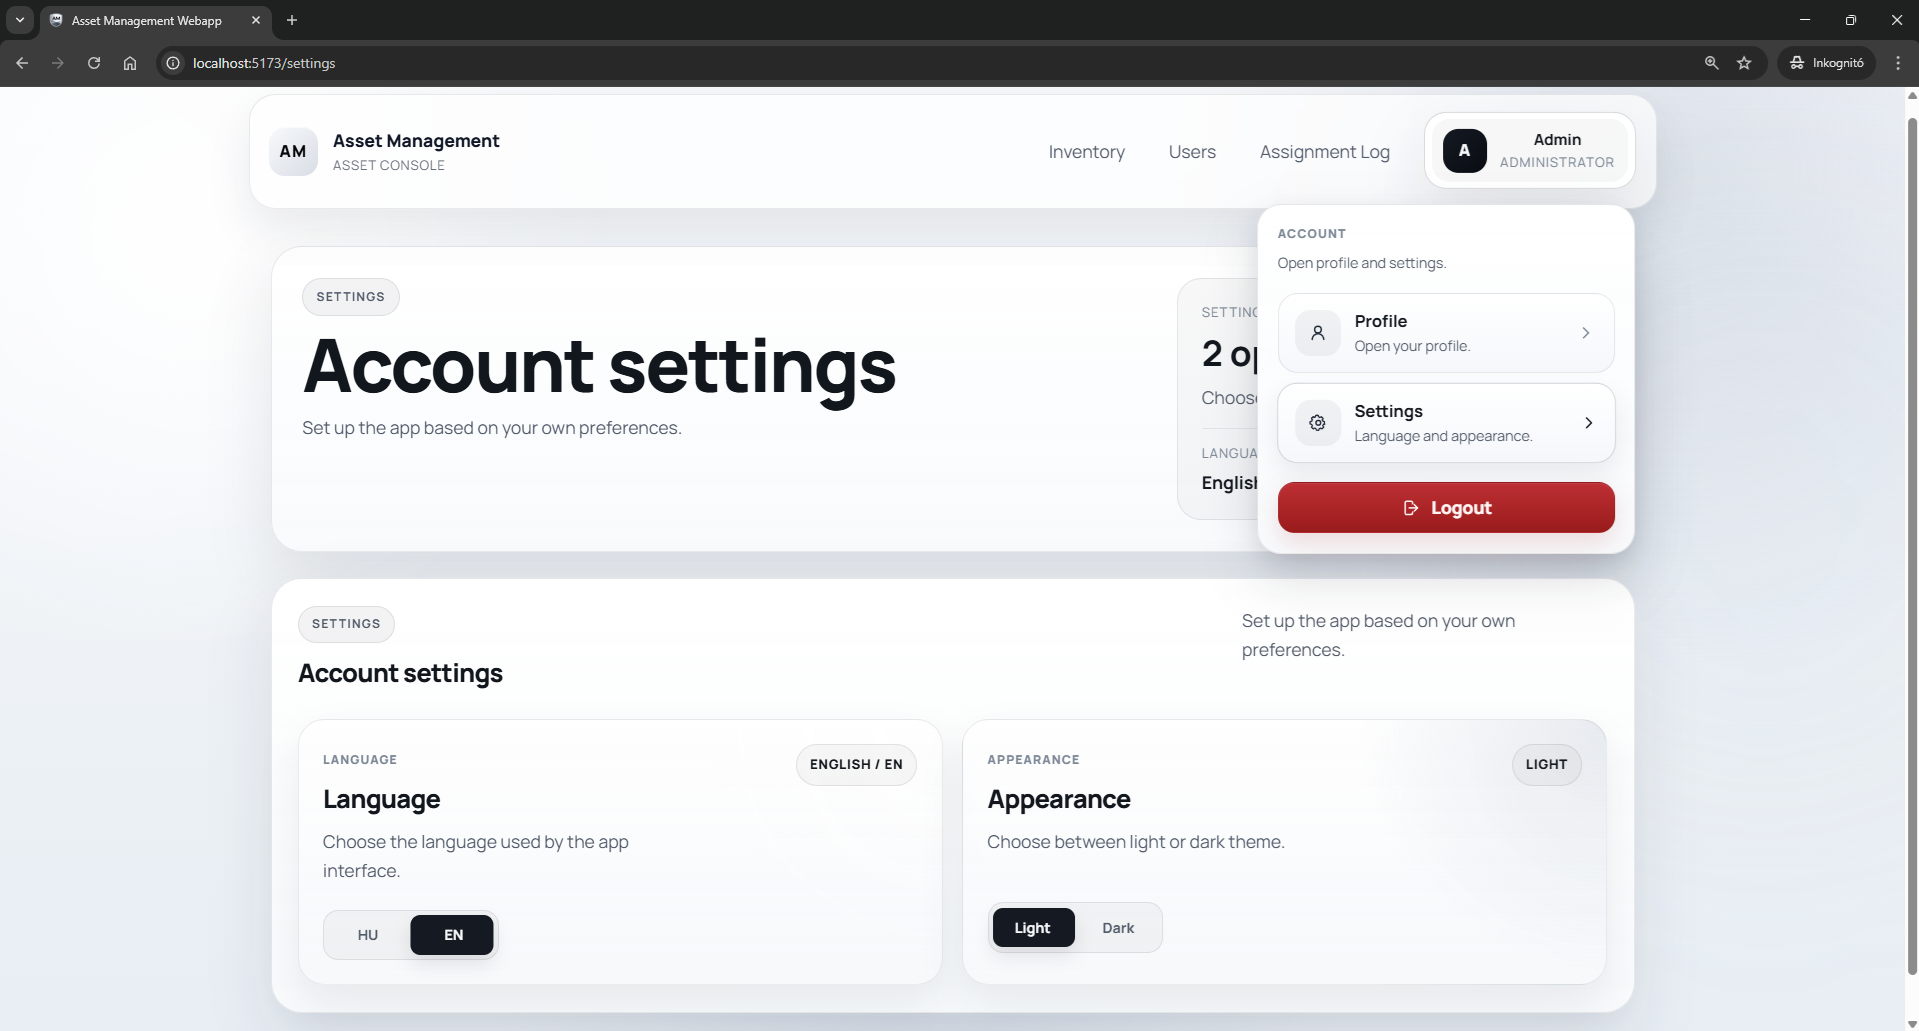
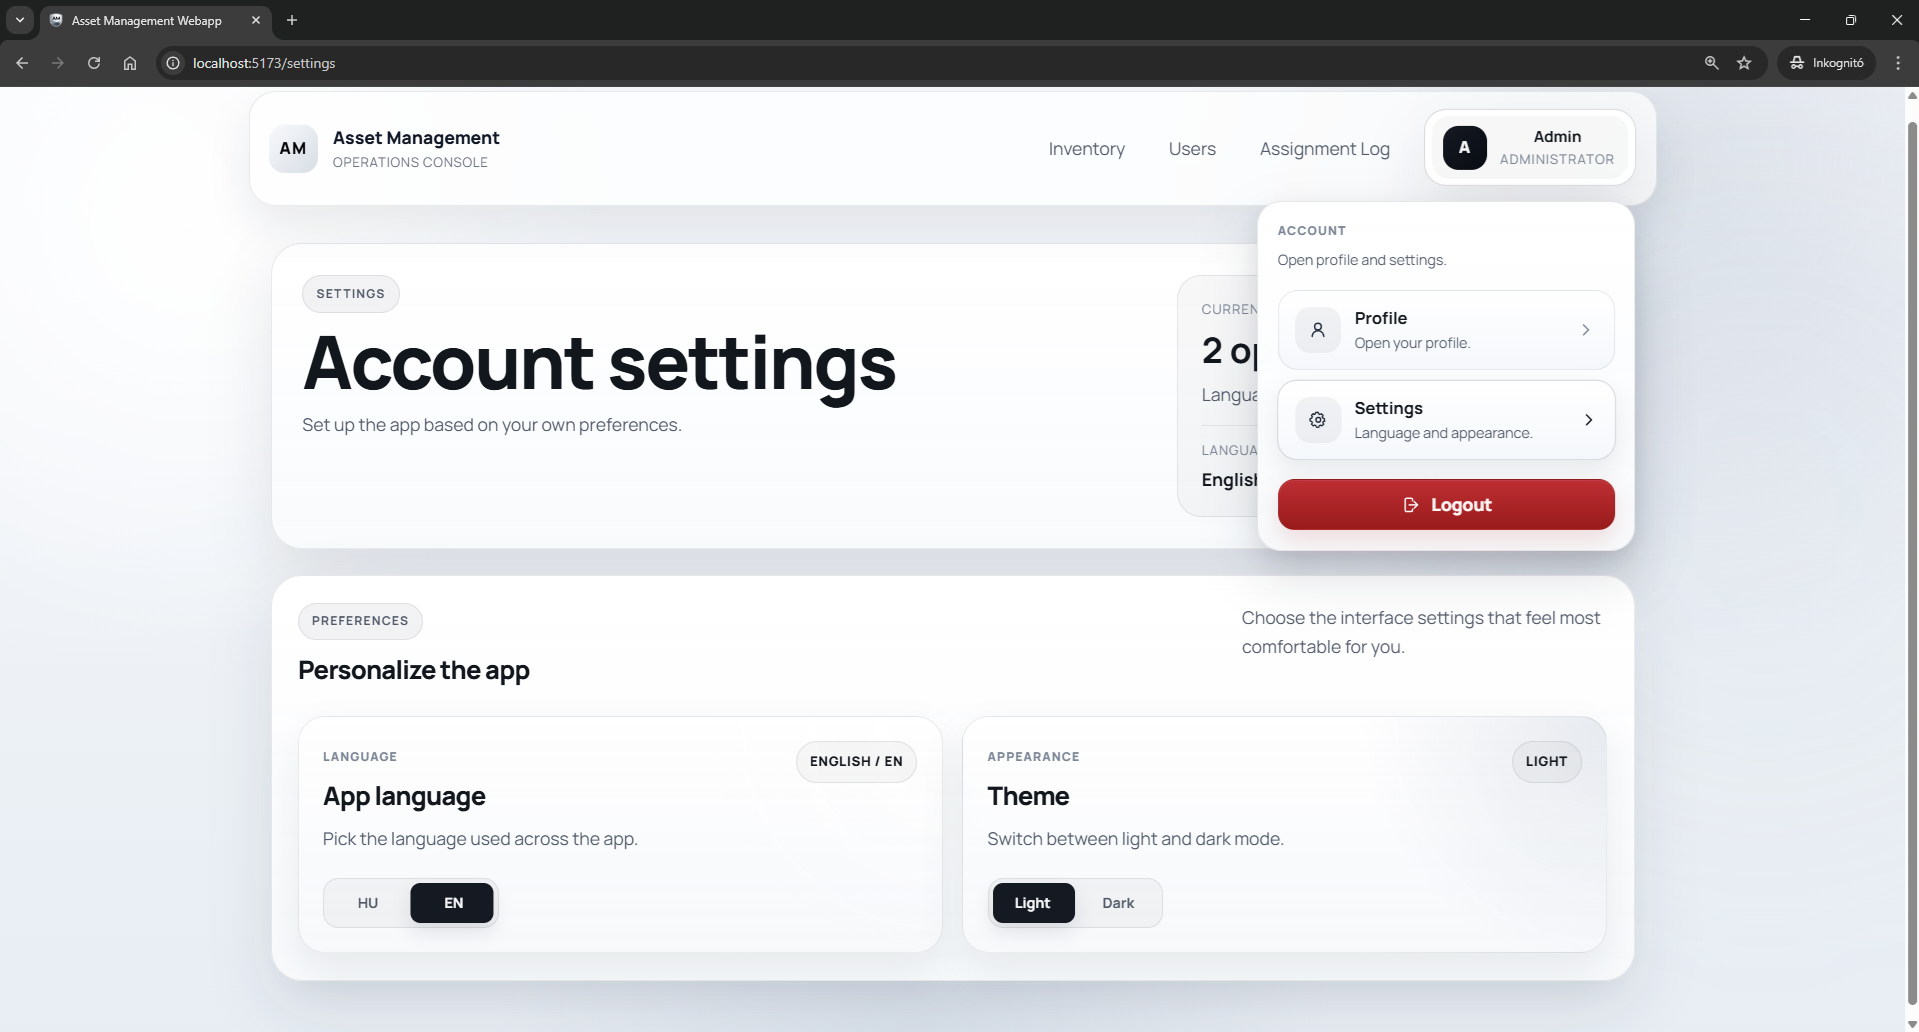
fix(locales): refine settings and asset details text

diff --git a/frontend/src/locales/en.ts b/frontend/src/locales/en.ts
@@ -1,5 +1,5 @@
 export const en = {
-    brandSubtitle: 'Asset Console',
+    brandSubtitle: 'Operations Console',
     nav: {
       inventory: 'Inventory',
       users: 'Users',
@@ -195,7 +195,7 @@ export const en = {
       overdueBadge: 'Overdue',
       overdueAlert: 'This item is overdue and should be returned.',
       dueSoonBadge: 'Due soon',
-      dueSoonAlert: 'The due date is close. Please plan the return.',
+      dueSoonAlert: 'The due date is coming up soon. Please plan the return ahead of time.',
       note: 'Note',
       equipmentPage: 'Asset details',
       noNote: 'No note',
@@ -240,7 +240,7 @@ export const en = {
       activeLabel: 'Items with you',
       activeNote: 'Assets currently assigned to you',
       historyLabel: 'History',
-      historyNote: 'Returned assets and older assignments',
+      historyNote: 'Previously returned or closed assignments',
       currentKicker: 'Current assets',
       currentTitle: 'Items currently with you',
       currentText: 'The assets you are using right now.',
@@ -249,7 +249,7 @@ export const en = {
       currentEmptyText: 'New assignments will appear here as soon as they are issued to you.',
       historyKicker: 'History',
       historyTitle: 'Previous assignments',
-      historyText: 'Returned assets and older records.',
+      historyText: 'Returned and closed records.',
       historySearchPlaceholder: 'Search previous assets and notes',
       historyEmptyTitle: 'No history yet',
       historyEmptyText: 'Returned items will appear here later.',
@@ -257,7 +257,7 @@ export const en = {
     users: {
       heroKicker: 'Users',
       heroTitle: 'Users',
-      heroText: 'Review user accounts, roles, and assigned assets.',
+      heroText: 'Overview of user accounts and asset assignment activity.',
       panelLabel: 'Admin view',
       panelValue: 'users',
       panelText: 'Search and sort all accounts.',
@@ -374,13 +374,16 @@ export const en = {
       heroKicker: 'Settings',
       heroTitle: 'Account settings',
       heroText: 'Set up the app based on your own preferences.',
-      panelLabel: 'Settings',
+      panelLabel: 'Current setup',
       panelValue: '2 options',
-      panelText: 'Choose language and set appearance here.',
-      languageTitle: 'Language',
-      languageText: 'Choose the language used by the app interface.',
-      themeTitle: 'Appearance',
-      themeText: 'Choose between light or dark theme.',
+      panelText: 'Language and appearance preferences.',
+      workspaceKicker: 'Preferences',
+      workspaceTitle: 'Personalize the app',
+      workspaceText: 'Choose the interface settings that feel most comfortable for you.',
+      languageTitle: 'App language',
+      languageText: 'Pick the language used across the app.',
+      themeTitle: 'Theme',
+      themeText: 'Switch between light and dark mode.',
     },
     details: {
       back: 'Back to inventory',
@@ -415,8 +418,8 @@ export const en = {
       stateActionAvailableText:
         'Move it back to available when asset is ready to be assigned again.',
       checkoutKicker: 'Assignment',
-      checkoutTitle: 'Assign to yourself',
-      checkoutText: 'Choose a due date and add an optional note.',
+      checkoutTitle: 'Assign this asset',
+      checkoutText: 'Choose a due date and add a short note to assign the asset.',
       assignTitle: 'Assign asset',
       assignText: 'Select who should receive this asset and when it should be returned.',
       assignUserLabel: 'Assigned user',
@@ -426,10 +429,10 @@ export const en = {
       dueAt: 'Due',
       note: 'Note',
       notePlaceholder: 'Optional note',
-      checkoutSubmit: 'Assign to me',
+      checkoutSubmit: 'Assign',
       returnKicker: 'Return',
       returnTitle: 'Return asset',
-      returnText: 'Close the assignment and add a short note if needed.',
+      returnText: 'Close the assignment with a short note if needed.',
       returnSubmit: 'Return asset',
       historyKicker: 'Timeline',
       historyTitle: 'Assignment history',
@@ -452,7 +455,8 @@ export const en = {
       issueabilityYes: 'Ready to assign',
       issueabilityNo: 'Not available right now',
       returnability: 'Return status',
-      returnabilityYes: 'The active assignment can be closed',
+      returnabilityYes: 'This active assignment can be closed',
+      returnabilityRestricted: 'No athorization to return the asset',
       returnabilityNo: 'There is no active assignment',
       loadError: 'Could not load asset details.',
       loading: 'Loading asset details...',

diff --git a/frontend/src/locales/hu.ts b/frontend/src/locales/hu.ts
@@ -373,13 +373,16 @@ export const hu = {
       heroKicker: 'Beállítások',
       heroTitle: 'Fiókbeállítások',
       heroText: 'Felhasználói preferenciák beállítása.',
-      panelLabel: 'Beállítások',
+      panelLabel: 'Beállítási lehetőségek',
       panelValue: '2 lehetőség',
-      panelText: 'Nyelv és a megjelenés konfigurálása.',
-      languageTitle: 'Nyelv',
+      panelText: 'Nyelvi és megjelenési beállítások.',
+      workspaceKicker: 'Preferenciák',
+      workspaceTitle: 'Felület testreszabása',
+      workspaceText: 'Válaszd ki a számodra legkényelmesebb felületi beállításokat.',
+      languageTitle: 'Használt nyelv',
       languageText: 'Válaszd ki, milyen nyelven szeretnéd használni az alkalmazást.',
-      themeTitle: 'Megjelenés',
-      themeText: 'Válaszd ki, hogy világos vagy sötét témát szeretnél.',
+      themeTitle: 'Téma',
+      themeText: 'Válts a világos és sötét megjelenési mód között.',
     },
     details: {
       back: 'Vissza az eszközparkhoz',
@@ -452,6 +455,7 @@ export const hu = {
       issueabilityNo: 'Jelenleg nem adható ki',
       returnability: 'Leadás',
       returnabilityYes: 'Leadható',
+      returnabilityRestricted: 'Nincs jogosultság az eszköz leadására',
       returnabilityNo: 'Nem lehetséges',
       loadError: 'Nem sikerült betölteni az eszköz adatait.',
       loading: 'Eszközadatok betöltése...',

diff --git a/frontend/src/components/equipment/EquipmentDetailsSummary.tsx b/frontend/src/components/equipment/EquipmentDetailsSummary.tsx
@@ -9,6 +9,7 @@ interface EquipmentDetailsSummaryProps {
   activeCheckoutEntry: CheckoutHistoryItem | undefined
   activeCheckoutOverdue: boolean
   activeCheckoutUserName: string | null
+  hasActiveAssignment: boolean
   canCheckoutNow: boolean
   canReturnNow: boolean
   canSeeActiveCheckoutDetails: boolean
@@ -23,6 +24,7 @@ export function EquipmentDetailsSummary({
   activeCheckoutEntry,
   activeCheckoutOverdue,
   activeCheckoutUserName,
+  hasActiveAssignment,
   canCheckoutNow,
   canReturnNow,
   canSeeActiveCheckoutDetails,
@@ -67,7 +69,11 @@ export function EquipmentDetailsSummary({
           <div className="info-stack__item">
             <span className="info-stack__label">{t.details.returnability}</span>
             <strong>
-              {canReturnNow ? t.details.returnabilityYes : t.details.returnabilityNo}
+              {canReturnNow
+                ? t.details.returnabilityYes
+                : hasActiveAssignment
+                  ? t.details.returnabilityRestricted
+                  : t.details.returnabilityNo}
             </strong>
           </div>
           <div className="info-stack__item">

diff --git a/frontend/src/pages/EquipmentDetailsPage.tsx b/frontend/src/pages/EquipmentDetailsPage.tsx
@@ -231,6 +231,8 @@ function EquipmentDetailsPage() {
   const canReturnNow = equipment.canReturn
   const latestCheckoutEntry = equipment.checkouts[0]
   const activeCheckoutEntry = equipment.checkouts.find((checkout) => !checkout.returnedAt)
+  const hasActiveAssignment =
+    !!activeCheckoutEntry || equipment.status === 'CheckedOut' || !!equipment.activeCheckoutUserName
   const activeCheckoutUserName =
     activeCheckoutEntry?.userName ?? equipment.activeCheckoutUserName ?? null
   const activeCheckoutDueAt =
@@ -448,6 +450,7 @@ function EquipmentDetailsPage() {
           activeCheckoutEntry={activeCheckoutEntry}
           activeCheckoutOverdue={activeCheckoutOverdue}
           activeCheckoutUserName={activeCheckoutUserName}
+          hasActiveAssignment={hasActiveAssignment}
           canCheckoutNow={canCheckoutNow}
           canReturnNow={canReturnNow}
           canSeeActiveCheckoutDetails={canSeeActiveCheckoutDetails}

diff --git a/frontend/src/pages/SettingsPage.tsx b/frontend/src/pages/SettingsPage.tsx
@@ -63,11 +63,11 @@ function SettingsPage() {
       <section className="section-card settings-workspace">
         <div className="section-heading section-heading--toolbar">
           <div>
-            <span className="section-heading__eyebrow">{t.settings.heroKicker}</span>
-            <h2 className="section-heading__title">{t.settings.heroTitle}</h2>
+            <span className="section-heading__eyebrow">{t.settings.workspaceKicker}</span>
+            <h2 className="section-heading__title">{t.settings.workspaceTitle}</h2>
           </div>
           <div className="section-heading__aside">
-            <p className="section-heading__text">{t.settings.heroText}</p>
+            <p className="section-heading__text">{t.settings.workspaceText}</p>
           </div>
         </div>
 
